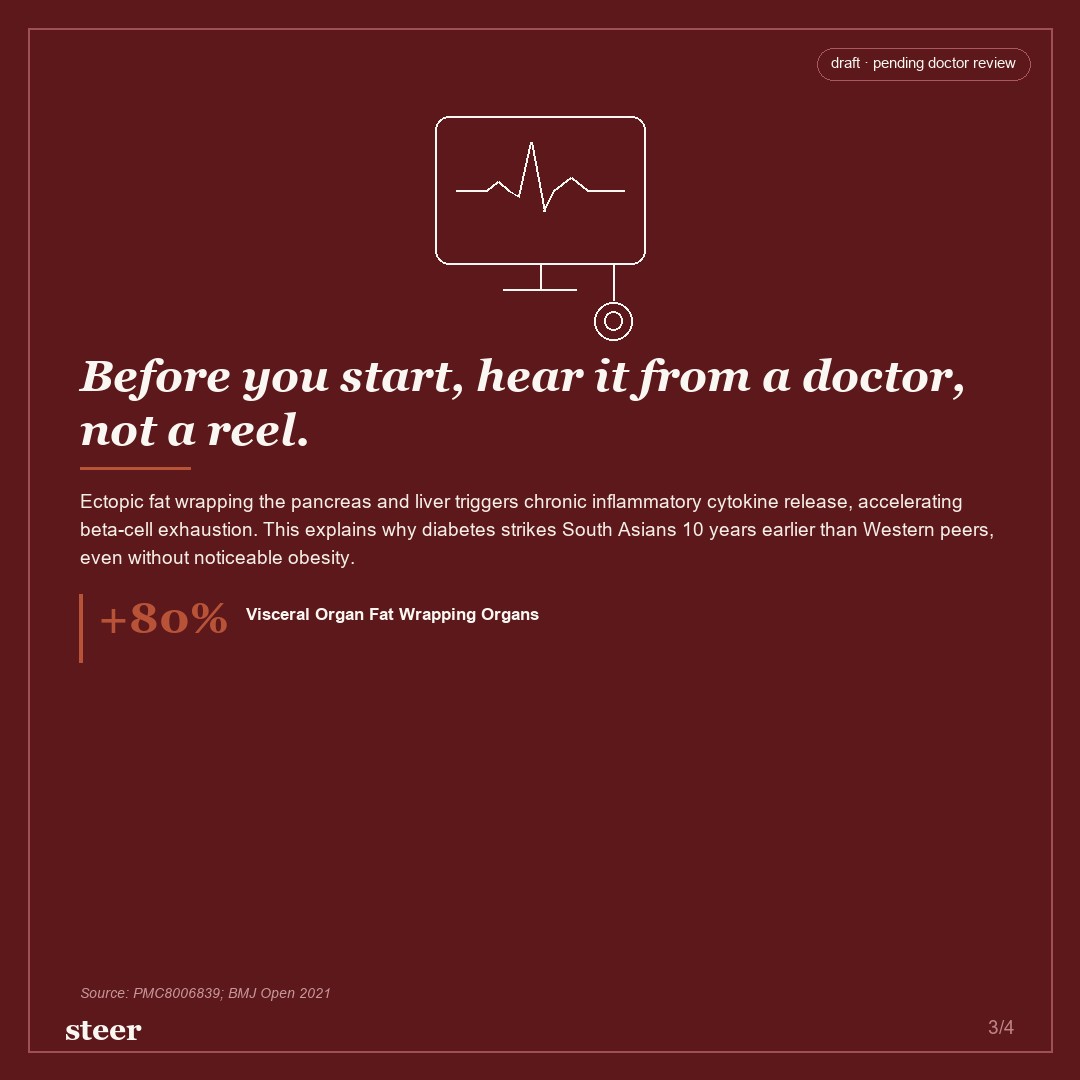
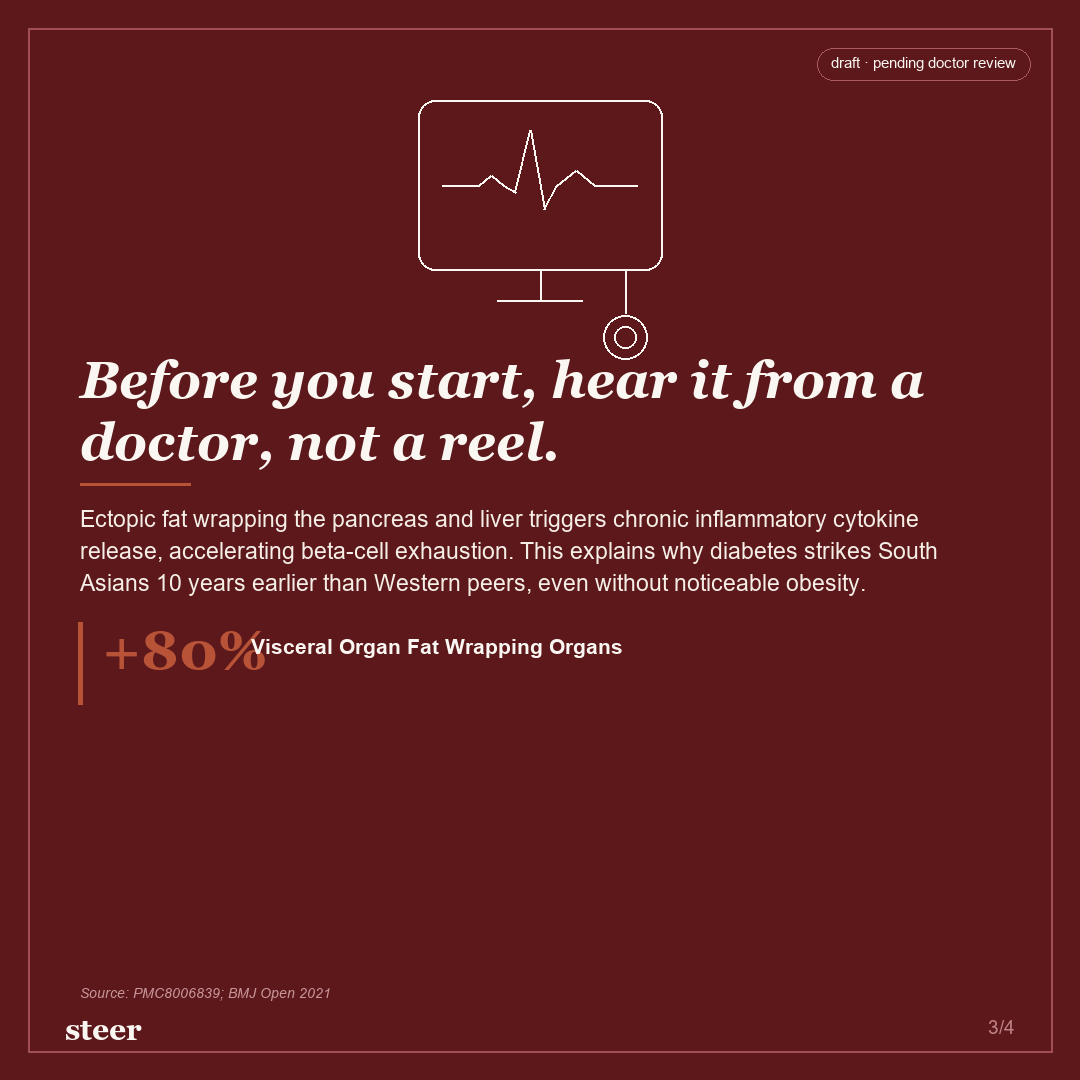
boost carousel typography and fill canvas vertically

diff --git a/pipeline/editorial_carousel_engine.py b/pipeline/editorial_carousel_engine.py
@@ -115,12 +115,12 @@ def render_editorial_carousel(output_dir: str, study=None) -> list[str]:
         if idx == 1:
             # SLIDE 1: COVER / HOOK (Square 1080x1080)
             # Monoline Cellular / Biological Motif top-left
-            draw_cellular_pattern(draw, 105, 95, radius=38, color=PALETTE["charcoal"])
+            draw_cellular_pattern(draw, 115, 105, radius=48, color=PALETTE["charcoal"])
             
             # Title with Italic Serif Accent
             title_text = slide.get("title", "")
-            font_italic = get_serif(44, bold=True, italic=True)
-            font_title = get_serif(44, bold=True, italic=False)
+            font_italic = get_serif(52, bold=True, italic=True)
+            font_title = get_serif(52, bold=True, italic=False)
             
             t_lines = wrap_text(title_text, font_title, width - 150, draw)
             y_title = 165
@@ -141,13 +141,13 @@ def render_editorial_carousel(output_dir: str, study=None) -> list[str]:
             draw.line([(75, y_title + 6), (175, y_title + 6)], fill=PALETTE["rust"], width=3)
             
             # Narrative Body (directly on cream, no box!)
-            font_body = get_sans(19, bold=False)
+            font_body = get_sans(24, bold=False)
             p1 = slide.get("p1", "")
             y_body = y_title + 24
             b_lines = wrap_text(p1, font_body, width - 150, draw)[:2]
             for bl in b_lines:
                 draw.text((75, y_body), bl, fill=PALETTE["charcoal"], font=font_body)
-                y_body += 28
+                y_body += 34
                 
             # Stat Highlight with Vertical Terracotta Bar (NO WHITE BOX!)
             stat_val = slide.get("stat", "")
@@ -155,33 +155,33 @@ def render_editorial_carousel(output_dir: str, study=None) -> list[str]:
             stat_sub = slide.get("stat_sub", "")
             
             y_stat = y_body + 20
-            bar_h = 92
-            draw.line([(75, y_stat), (75, y_stat + bar_h)], fill=PALETTE["rust"], width=5)
+            bar_h = 115
+            draw.line([(75, y_stat), (75, y_stat + bar_h)], fill=PALETTE["rust"], width=6)
             
-            font_big_stat = get_serif(58, bold=True)
+            font_big_stat = get_serif(76, bold=True)
             draw.text((95, y_stat - 4), stat_val, fill=PALETTE["rust"], font=font_big_stat)
             
             s_bbox = draw.textbbox((0, 0), stat_val, font=font_big_stat)
             sw = s_bbox[2] - s_bbox[0]
             
             y_lbl = y_stat + 4
-            lbl_lines = wrap_text(stat_lbl, get_sans(18, bold=True), width - (110 + sw + 30), draw)[:2]
+            lbl_lines = wrap_text(stat_lbl, get_sans(22, bold=True), width - (115 + sw + 30), draw)[:2]
             for ll in lbl_lines:
                 draw.text((110 + sw, y_lbl), ll, fill=PALETTE["charcoal"], font=get_sans(18, bold=True))
-                y_lbl += 24
-            draw.text((110 + sw, y_lbl + 2), stat_sub, fill=PALETTE["slate"], font=get_sans(14))
+                y_lbl += 30
+            draw.text((115 + sw, y_lbl + 4), stat_sub, fill=PALETTE["slate"], font=get_sans(17))
             
             sid = (study.study_id if study else "lancet_tofi").upper()
-            telem_img = draw_slide1_telemetry(sid, width - 150, 200)
+            telem_img = draw_slide1_telemetry(sid, width - 150, 230)
             if telem_img:
                 img.paste(telem_img, (75, y_stat + bar_h + 18), telem_img if telem_img.mode == "RGBA" else None)
                 
             font_cit = get_sans(14, italic=True)
-            draw.text((75, height - 95), slide.get("citation", ""), fill=PALETTE["slate"], font=font_cit)
+            draw.text((75, height - 90), slide.get("citation", ""), fill=PALETTE["slate"], font=font_cit)
             
         elif idx == 2:
             # SLIDE 2: PATHOPHYSIOLOGY / MECHANISM (Square 1080x1080, Direct Cream)
-            font_title = get_serif(42, bold=True)
+            font_title = get_serif(48, bold=True)
             title_text = slide.get("title", "")
             t_lines = wrap_text(title_text, font_title, width - 150, draw)[:2]
             y_title = 110
@@ -193,7 +193,7 @@ def render_editorial_carousel(output_dir: str, study=None) -> list[str]:
             # Clinical Vector Diagram rendered transparently directly on canvas
             dkey = slide.get("diagram_key", "")
             diag_w = width - 150
-            diag_h = 310
+            diag_h = 360
             if "SURPASS" in dkey:
                 diag_img = draw_surpass_diagram(diag_w, diag_h)
             elif "MACE" in dkey or "STEER" in dkey:
@@ -210,40 +210,40 @@ def render_editorial_carousel(output_dir: str, study=None) -> list[str]:
             
             # Clinical Finding with Vertical Terracotta Bar (Directly on cream!)
             y_takeaway = y_diag + diag_h + 24
-            draw.line([(75, y_takeaway), (75, y_takeaway + 115)], fill=PALETTE["rust"], width=5)
+            draw.line([(75, y_takeaway), (75, y_takeaway + 135)], fill=PALETTE["rust"], width=6)
             
             p1 = slide.get("p1", "")
             takeaway = slide.get("takeaway", "")
             
-            font_quote = get_serif(21, italic=True)
+            font_quote = get_serif(25, italic=True)
             q_lines = wrap_text(f'"{p1}"', font_quote, width - 180, draw)[:3]
             y_q = y_takeaway + 2
             for ql in q_lines:
                 draw.text((95, y_q), ql, fill=PALETTE["charcoal"], font=font_quote)
-                y_q += 28
+                y_q += 34
                 
-            font_t_bold = get_sans(16, bold=True)
+            font_t_bold = get_sans(20, bold=True)
             draw.text((95, y_q + 6), f"Key Protocol: {takeaway}", fill=PALETTE["rust"], font=font_t_bold)
             
             # Citation
             font_cit = get_sans(14, italic=True)
-            draw.text((75, height - 95), slide.get("citation", ""), fill=PALETTE["slate"], font=font_cit)
+            draw.text((75, height - 90), slide.get("citation", ""), fill=PALETTE["slate"], font=font_cit)
             
         elif idx == 3:
             # SLIDE 3: PATTERN INTERRUPT (Square 1080x1080, Deep Oxblood Maroon `#5C181A`)
-            draw_cardiac_monitor(draw, width // 2, 190, scale=1.05, color=PALETTE["white"], stroke_w=2)
+            draw_cardiac_monitor(draw, width // 2, 185, scale=1.22, color=PALETTE["white"], stroke_w=2)
             
-            font_hero_quote = get_serif(44, bold=True, italic=True)
+            font_hero_quote = get_serif(52, bold=True, italic=True)
             quote_text = "Before you start, hear it from a doctor, not a reel."
             q_lines = wrap_text(quote_text, font_hero_quote, width - 160, draw)[:2]
             y_hq = 350
             for ql in q_lines:
                 draw.text((80, y_hq), ql, fill=PALETTE["white"], font=font_hero_quote)
-                y_hq += 54
+                y_hq += 62
                 
             draw.line([(80, y_hq + 10), (190, y_hq + 10)], fill=PALETTE["rust"], width=3)
             
-            font_caveat = get_sans(19, bold=False)
+            font_caveat = get_sans(23, bold=False)
             p1 = slide.get("p1", "")
             p2 = slide.get("p2", "")
             body_text = f"{p1} {p2}".strip()
@@ -251,18 +251,18 @@ def render_editorial_carousel(output_dir: str, study=None) -> list[str]:
             c_lines = wrap_text(body_text, font_caveat, width - 160, draw)[:3]
             for cl in c_lines:
                 draw.text((80, y_cav), cl, fill=(245, 238, 230), font=font_caveat)
-                y_cav += 28
+                y_cav += 32
                 
             # Key Clinical Stat or Takeaway on dark
             stat_val = slide.get("stat", "")
             stat_lbl = slide.get("stat_label", "")
             if stat_val:
                 y_ds = y_cav + 20
-                draw.line([(80, y_ds), (80, y_ds + 68)], fill=PALETTE["rust"], width=4)
-                draw.text((98, y_ds - 2), stat_val, fill=PALETTE["rust"], font=get_serif(44, bold=True))
+                draw.line([(80, y_ds), (80, y_ds + 82)], fill=PALETTE["rust"], width=5)
+                draw.text((102, y_ds - 4), stat_val, fill=PALETTE["rust"], font=get_serif(56, bold=True))
                 s_bbox = draw.textbbox((0, 0), stat_val, font=get_serif(44, bold=True))
                 sw = s_bbox[2] - s_bbox[0]
-                draw.text((115 + sw, y_ds + 10), stat_lbl, fill=PALETTE["white"], font=get_sans(17, bold=True))
+                draw.text((120 + sw, y_ds + 12), stat_lbl, fill=PALETTE["white"], font=get_sans(21, bold=True))
                 
             # Citation
             font_cit = get_sans(14, italic=True)
@@ -270,13 +270,13 @@ def render_editorial_carousel(output_dir: str, study=None) -> list[str]:
             
         elif idx == 4:
             # SLIDE 4: THE STEER ARCHITECTURE / DOCTOR CONSULTATION (Square 1080x1080)
-            draw_stethoscope(draw, 740, 310, scale=0.88, color=PALETTE["charcoal"], stroke_w=2)
+            draw_stethoscope(draw, 740, 310, scale=0.96, color=PALETTE["charcoal"], stroke_w=3)
             
-            font_cta_title = get_serif(42, bold=True, italic=True)
+            font_cta_title = get_serif(50, bold=True, italic=True)
             draw.text((75, 105), "Talk to a Steer doctor.", fill=PALETTE["rust"], font=font_cta_title)
             draw.line([(75, 160), (175, 160)], fill=PALETTE["rust"], width=3)
             
-            font_sub = get_sans(19)
+            font_sub = get_sans(23)
             draw.text((75, 178), "Doctor-led metabolic care built for Indian biology.", fill=PALETTE["charcoal"], font=font_sub)
             
             # Steer 3 Pillars
@@ -288,21 +288,22 @@ def render_editorial_carousel(output_dir: str, study=None) -> list[str]:
             ])
             
             for p_title, p_desc in pillars[:3]:
-                draw.line([(75, y_p), (75, y_p + 58)], fill=PALETTE["rust"], width=4)
-                draw.text((92, y_p), p_title, fill=PALETTE["charcoal"], font=get_sans(18, bold=True))
-                d_lines = wrap_text(p_desc, get_sans(15), 450, draw)[:2]
+                draw.line([(75, y_p), (75, y_p + 68)], fill=PALETTE["rust"], width=5)
+                draw.text((95, y_p), p_title, fill=PALETTE["charcoal"], font=get_sans(22, bold=True))
+                d_lines = wrap_text(p_desc, get_sans(18), 450, draw)[:2]
                 yd = y_p + 24
                 for dl in d_lines:
-                    draw.text((92, yd), dl, fill=PALETTE["slate"], font=get_sans(15))
-                    yd += 20
-                y_p += 92
+                    draw.text((95, yd), dl, fill=PALETTE["slate"], font=get_sans(18))
+                    yd += 24
+                y_p += 105
                 
             # Caring hands illustration anchoring lower-left
-            draw_caring_hands(draw, 190, 680, scale=0.72, color=PALETTE["charcoal"], stroke_w=2)
+            draw_caring_hands(draw, 200, 680, scale=0.82, color=PALETTE["charcoal"], stroke_w=2)
             
             # CTA Box & URL
-            draw.text((75, 800), "Visit steerclub.com to check eligibility →", fill=PALETTE["rust"], font=get_sans(21, bold=True))
-            draw.text((75, 835), "Comprehensive blood panel • Doctor consult • Continuous monitoring", fill=PALETTE["slate"], font=get_sans(14))
+            draw.text((75, 800), "Visit steerclub.com to check eligibility →", fill=PALETTE["rust"], font=get_sans(25, bold=True))
+            draw.text((75, 840), "Comprehensive blood panel • Doctor consult • Continuous monitoring", fill=PALETTE["slate"], font=get_sans(16))
+            draw.text((75, 875), "Doctor-led consultations • Continuous metabolic monitoring across India", fill=PALETTE["charcoal"], font=get_sans(17, bold=True))
             
             # Citation
             font_cit = get_sans(14, italic=True)

diff --git a/pipeline/clinical_graphics.py b/pipeline/clinical_graphics.py
@@ -449,20 +449,38 @@ def draw_slide1_telemetry(study_id: str = "", w=840, h=240) -> Image.Image:
         draw.text((x2 + 20, 174), "• 5.3x Diabetes Risk at normal scale weight!", fill=PALETTE["oxblood"], font=get_font(14, bold=True))
 
     else:
-        # Default: Lancet TOFI Adiposity Split-Bar
-        draw.text((24, 16), "INTERNAL VISCERAL VS SUBCUTANEOUS ADIPOSITY SPLIT (AT 70.0 KG)", fill=PALETTE["clay"], font=get_font(14, bold=True))
+        # Proportional Stacked Visual Dual-Segment Progress Bar (Fills canvas with zero void)
+        draw.text((24, 14), "INTERNAL VISCERAL VS SUBCUTANEOUS ADIPOSITY SPLIT (AT 70.0 KG)", fill=PALETTE["clay"], font=get_font(15, bold=True))
         
-        # Bar 1: European 70kg
-        draw.text((28, 52), "European Control (70.0 kg • BMI 22.8)", fill=PALETTE["ink"], font=get_font(15, bold=True))
-        draw.rounded_rectangle([28, 78, 28 + 480, 116], radius=8, fill=PALETTE["teal_light"], outline="#CBE2D3", width=1)
-        draw.text((45, 88), "82% Subcutaneous Safe Buffer  •  18% Visceral (48 cm³)", fill=PALETTE["teal"], font=get_font(15, bold=True))
+        bar_w = w - 50
+        bar_h = 46
         
-        # Bar 2: South Asian TOFI 70kg
-        draw.text((28, 132), "South Asian TOFI (70.0 kg • BMI 22.8)", fill=PALETTE["oxblood"], font=get_font(15, bold=True))
-        draw.rounded_rectangle([28, 158, 28 + 620, 196], radius=8, fill=PALETTE["rust_light"], outline=PALETTE["rust"], width=2)
-        draw.text((45, 168), "45% Subcutaneous  •  55% Visceral (184 cm³, +283% Toxic Organ Fat)", fill=PALETTE["oxblood"], font=get_font(15, bold=True))
+        # 1. European Control
+        draw.text((24, 46), "European Control (70.0 kg • BMI 22.8) — Healthy Peripheral Buffer", fill=PALETTE["ink"], font=get_font(17, bold=True))
+        w_sub1 = int(bar_w * 0.82)
+        bx = 24
+        by1 = 74
+        draw.rounded_rectangle([bx, by1, bx + bar_w, by1 + bar_h], radius=10, fill="#EFE8DE", outline="#DCD3C7", width=1)
+        draw.rounded_rectangle([bx, by1, bx + w_sub1, by1 + bar_h], radius=10, fill=PALETTE["teal_light"], outline="#CBE2D3", width=1)
+        draw.text((bx + 18, by1 + 13), "82% Subcutaneous Safe Buffer (218 cm³)", fill=PALETTE["teal"], font=get_font(15, bold=True))
+        draw.rounded_rectangle([bx + w_sub1, by1, bx + bar_w, by1 + bar_h], radius=10, fill=PALETTE["rust_light"], outline=PALETTE["rust"], width=1)
+        draw.text((bx + w_sub1 + 10, by1 + 13), "18% VAT", fill=PALETTE["rust"], font=get_font(14, bold=True))
         
-        draw.text((28, 212), "External body scale reads identical while internal visceral fat strangles organs.", fill=PALETTE["oxblood"], font=get_font(13, bold=True))
+        # 2. South Asian TOFI
+        by2 = 152
+        draw.text((24, 128), "South Asian TOFI (70.0 kg • BMI 22.8) — Ectopic Organ Saturation (+283% VAT)", fill=PALETTE["oxblood"], font=get_font(17, bold=True))
+        w_sub2 = int(bar_w * 0.45)
+        draw.rounded_rectangle([bx, by2, bx + bar_w, by2 + bar_h], radius=10, fill="#EFE8DE", outline="#DCD3C7", width=1)
+        draw.rounded_rectangle([bx, by2, bx + w_sub2, by2 + bar_h], radius=10, fill=PALETTE["teal_light"], outline="#CBE2D3", width=1)
+        draw.text((bx + 18, by2 + 13), "45% Subcutaneous Buffer", fill=PALETTE["teal"], font=get_font(15, bold=True))
+        draw.rounded_rectangle([bx + w_sub2, by2, bx + bar_w, by2 + bar_h], radius=10, fill=PALETTE["rust"], outline=PALETTE["oxblood"], width=2)
+        draw.text((bx + w_sub2 + 16, by2 + 13), "55% Toxic Visceral Fat (184 cm³ • 3.8x Ectopic Load)", fill="#FFF", font=get_font(15, bold=True))
+        
+        # 3. Clinical Summary Banner (Full Height & Complete Text)
+        by3 = 230
+        draw.rounded_rectangle([bx, by3, bx + bar_w, by3 + 60], radius=10, fill="#FAF3EB", outline=PALETTE["rust"], width=2)
+        draw.text((bx + 18, by3 + 10), "⚡ Steer DEXA Protocol: Prioritize visceral organ fat clearance before tapering doses.", fill=PALETTE["oxblood"], font=get_font(16, bold=True))
+        draw.text((bx + 18, by3 + 34), "Standard scales measure total gravity. Steer DEXA scans quantify the visceral fat causing diabetes.", fill=PALETTE["clay"], font=get_font(14))
 
     return img
 
